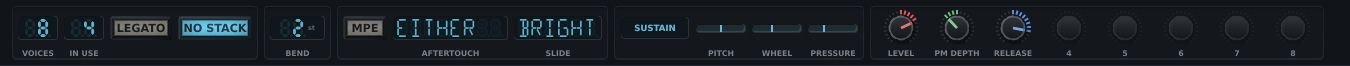
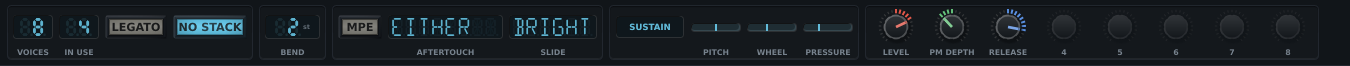
Even out the spacing in the bars

diff --git a/Source/UI/TopBar.cpp b/Source/UI/TopBar.cpp
@@ -17,12 +17,31 @@ namespace ovt::ui {
 namespace {
 constexpr float kZoomChoices[] = {0.75f, 1.0f, 1.25f, 1.5f};
 
-constexpr int kBarMargin = 12;
-constexpr int kBarPadY = 6;
-constexpr int kRowHeight = 54;
+/// The space round the edges of the bar. The same on the left, the right,
+/// the top and the bottom, and the same as between the four buttons. The
+/// bottom padding is one more than the top because the bar's bottom edge is
+/// a 1 px line.
+constexpr int kBarMargin = 7;
+constexpr int kBarPadTop = 5;
+constexpr int kBarPadBottom = 6;
+constexpr int kRowHeight = 55;
 constexpr int kRowGap = 4;
 constexpr int kGroupGap = 6;
+
+/// Inside a framed group, between its frame and its controls.
 constexpr int kGroupPad = 6;
+
+/// Between the groups that have no frame: the four buttons, the wordmark
+/// with the preset screen, and the first frame after them.
+constexpr int kUnframedGap = 22;
+
+/// Between the four buttons, across and down.
+constexpr int kButtonGap = 7;
+
+/// Below the controls in a frame, so its captions sit 2 px above the frame's
+/// bottom edge as its dials sit 3 px below the top, and every dial in a row is
+/// the same size.
+constexpr int kBelowControls = 1;
 
 /// Between the wordmark and the preset screen under it.
 constexpr int kWordmarkGap = 2;
@@ -36,26 +55,38 @@ constexpr int kWordmarkGap = 2;
 /// bar can spare rather than against what would be comfortable. Measured in
 /// the font a 24 px button picks, SETTINGS is 61 px of text and MACROS is 54.
 ///
-/// Both wear an icon instead, which is what makes 84 enough: the words want
-/// 62 and 54 px and the bar could spare 58 each, and every pixel taken here
-/// is half a pixel off each converter readout, which stop naming their units
-/// below 53. A gear and a rack of faders say the same thing in a third of
-/// the room, and the words are still what a screen reader is given.
+/// Both wear an icon instead, which is what makes 73 enough: the words want
+/// 62 and 54 px, and every pixel taken here is half a pixel off each
+/// converter readout, which stop naming their units below 53. A gear and a rack
+/// of faders say the same thing in a third of the room, and the words are still
+/// what a screen reader is given.
 ///
 /// The strings come straight after the character with no gap between, and
 /// where the two share a row they are framed as one, since both say what the
 /// instrument is rather than what is done to it afterwards. They are two
 /// groups so that a narrow window can put the strings on the next row rather
 /// than having to be wide enough for both.
-constexpr int kGroupMinWidth[] = {84, 144, 218, 194, 232, 228, 172};
+///
+/// The first two have no frame, so their widths are their contents: two
+/// 33 px buttons with a gap, and the 132 px preset screen.
+constexpr int kGroupMinWidth[] = {73, 132, 218, 194, 232, 228, 172};
+constexpr int kPresetGroupIndex = 1;
+constexpr int kSeriesGroupIndex = 2;
 constexpr int kStringsGroupIndex = 3;
 constexpr int kOutputGroupIndex = 6;
 constexpr int kGroupCount = 7;
 
 /// The room left before a group that follows another on its row. None before
-/// the strings, whose frame carries on from the character's.
+/// the strings, whose frame carries on from the character's, and more round
+/// the two groups that have no frame.
 constexpr int gapBefore(int group) {
-  return group == kStringsGroupIndex ? 0 : kGroupGap;
+  if (group == kStringsGroupIndex)
+    return 0;
+
+  if (group == kPresetGroupIndex || group == kSeriesGroupIndex)
+    return kUnframedGap;
+
+  return kGroupGap;
 }
 
 /// Buttons, lists and the output meter all stand this tall, centred on the
@@ -1539,7 +1570,7 @@ TopBar::RowPlan TopBar::planRows(int fullWidth, int maxRows) {
 int TopBar::heightForWidth(int width) {
   const auto rows = planRows(width - 2 * kBarMargin, kGroupCount).rows;
 
-  return rows * kRowHeight + (rows - 1) * kRowGap + 2 * kBarPadY;
+  return rows * kRowHeight + (rows - 1) * kRowGap + kBarPadTop + kBarPadBottom;
 }
 
 int TopBar::minimumWidth() {
@@ -1577,7 +1608,11 @@ void TopBar::parkControls() {
 void TopBar::placeGroup(int group, juce::Rectangle<int> bounds) {
   groupBounds[(size_t)group] = bounds;
 
-  auto r = bounds.reduced(kGroupPad, 0);
+  // The groups with no frame use their whole width.
+  const bool framed = group != VoiceGroup && group != PresetGroup;
+  auto r = framed
+               ? bounds.reduced(kGroupPad, 0).withTrimmedBottom(kBelowControls)
+               : bounds;
 
   // Everything in the bar lines up with the dials rather than with the middle
   // of the row. A knob carries its caption underneath, so its dial sits above
@@ -1628,18 +1663,18 @@ void TopBar::placeGroup(int group, juce::Rectangle<int> bounds) {
     // which is the one place on the bar that does not: there is no room for
     // a second row of buttons otherwise, and four in a line pushed the bar
     // onto another row at the width that shows all 32 channels.
-    const auto half = (r.getWidth() - kFxToggleGap) / 2;
-    const auto height = (r.getHeight() - kFxToggleGap) / 2;
+    const auto half = (r.getWidth() - kButtonGap) / 2;
+    const auto height = (r.getHeight() - kButtonGap) / 2;
 
     auto top = r.withHeight(height);
     auto bottom = r.withTop(r.getBottom() - height);
 
     settingsButton.setBounds(top.removeFromLeft(half));
-    top.removeFromLeft(kFxToggleGap);
+    top.removeFromLeft(kButtonGap);
     macroButton.setBounds(top);
 
     playingButton.setBounds(bottom.removeFromLeft(half));
-    bottom.removeFromLeft(kFxToggleGap);
+    bottom.removeFromLeft(kButtonGap);
     tuningButton.setBounds(bottom);
     break;
   }
@@ -1802,7 +1837,10 @@ void TopBar::resized() {
 
   parkControls();
 
-  auto area = getLocalBounds().reduced(kBarMargin, kBarPadY);
+  auto area = getLocalBounds()
+                  .reduced(kBarMargin, 0)
+                  .withTrimmedTop(kBarPadTop)
+                  .withTrimmedBottom(kBarPadBottom);
   const auto fullWidth = area;
 
   const auto affordable =
@@ -1898,27 +1936,29 @@ void TopBar::paint(juce::Graphics &g) {
       // Centred under the head rather than pushed into the corner, because
       // that is what the knob captions beside it do and the point is to read
       // as one more of them.
-      const auto band = LabelledKnob::captionBounds(r)
-                            .withX(n.head->getX())
-                            .withWidth(n.head->getWidth());
+      const auto band =
+          LabelledKnob::captionBounds(r.withTrimmedBottom(kBelowControls))
+              .withX(n.head->getX())
+              .withWidth(n.head->getWidth());
 
       g.drawText(kGroupNames[i], band, juce::Justification::centred, false);
     }
   }
 
-  // The wordmark, the width of the preset screen under it and centred in
-  // the room above it.
+  // The wordmark, the width of the preset screen under it, at the top of the
+  // room above it, so its tallest letter is level with the top of the
+  // buttons and the frames.
   const auto &preset = groupBounds[(size_t)PresetGroup];
 
   if (preset.isEmpty())
     return;
 
-  const auto above = preset.reduced(kGroupPad, 0)
-                         .withBottom(presetDisplay.getY() - kWordmarkGap);
+  const auto above = preset.withBottom(presetDisplay.getY() - kWordmarkGap);
 
   if (logoScaled.isValid()) {
     g.drawImage(logoScaled, above.toFloat(),
-                juce::RectanglePlacement::centred |
+                juce::RectanglePlacement::xMid |
+                    juce::RectanglePlacement::yTop |
                     juce::RectanglePlacement::onlyReduceInSize);
     return;
   }

diff --git a/Source/UI/OptionBars.cpp b/Source/UI/OptionBars.cpp
@@ -14,13 +14,19 @@ namespace ovt::ui {
 
 namespace {
 /// The same margins and spacing the top bar keeps, so the groups in a bar
-/// read as more of it.
-constexpr int kBarMargin = 12;
-constexpr int kBarPadY = 6;
+/// read as more of it: the same space on every side, with one more at the
+/// bottom for the bar's 1 px bottom line.
+constexpr int kBarMargin = 7;
+constexpr int kBarPadTop = 5;
+constexpr int kBarPadBottom = 6;
 
 /// A row and the gap between rows, the top bar's own.
-constexpr int kRow = 54;
+constexpr int kRow = 55;
 constexpr int kRowGap = 4;
+
+/// Below the controls in a frame, as in the top bar, so a dial is the size it
+/// is there.
+constexpr int kBelowControls = 1;
 constexpr int kGroupGap = 6;
 constexpr int kGroupPad = 6;
 constexpr int kControlGap = 6;
@@ -61,6 +67,13 @@ void OptionBar::mouseWheelMove(const juce::MouseEvent &e,
                                const juce::MouseWheelDetails &wheel) {
   if (e.originalComponent == this)
     juce::Component::mouseWheelMove(e, wheel);
+}
+
+juce::Rectangle<int> OptionBar::rowsArea() const {
+  return getLocalBounds()
+      .reduced(kBarMargin, 0)
+      .withTrimmedTop(kBarPadTop)
+      .withTrimmedBottom(kBarPadBottom);
 }
 
 juce::Colour OptionBar::captionColour(const Item &) const {
@@ -206,14 +219,13 @@ OptionBar::placeGroups(juce::Rectangle<int> area, int *rows) const {
 int OptionBar::heightForWidth(int width) const {
   int rows = 1;
   placeGroups(
-      {kBarMargin, kBarPadY, juce::jmax(1, width - 2 * kBarMargin), kRow},
+      {kBarMargin, kBarPadTop, juce::jmax(1, width - 2 * kBarMargin), kRow},
       &rows);
-  return rows * kRow + (rows - 1) * kRowGap + 2 * kBarPadY;
+  return rows * kRow + (rows - 1) * kRowGap + kBarPadTop + kBarPadBottom;
 }
 
 void OptionBar::resized() {
-  groupBounds =
-      placeGroups(getLocalBounds().reduced(kBarMargin, kBarPadY), nullptr);
+  groupBounds = placeGroups(rowsArea(), nullptr);
 
   for (size_t g = 0; g < groups.size(); ++g) {
     const auto &bounds = groupBounds[g];
@@ -221,13 +233,11 @@ void OptionBar::resized() {
     // The line the controls go along, one row tall, moving down a row when the
     // next control does not fit in what is left of it, which only a group
     // wider than the bar ever needs.
-    auto line = bounds.withHeight(kRow);
+    auto line = bounds.withHeight(kRow - kBelowControls);
     auto inner = line.reduced(kGroupPad, 0);
     bool first = true;
     int placedHere = 0;
-    const auto each = perLine(
-        groups[g], getLocalBounds().reduced(kBarMargin, kBarPadY).getWidth() -
-                       2 * kGroupPad);
+    const auto each = perLine(groups[g], rowsArea().getWidth() - 2 * kGroupPad);
 
     for (auto &item : groups[g].items) {
       const bool shown = !bounds.isEmpty() && item.shown;

diff --git a/Tests/plugin_runtime_test.cpp b/Tests/plugin_runtime_test.cpp
@@ -4857,7 +4857,7 @@ void testTopBarLayout() {
         "the bar fits in a sensible minimum width (" + std::to_string(minimum) +
             ")");
 
-  check(tallest <= 3 * 54 + 2 * 4 + 2 * 6,
+  check(tallest <= 3 * 55 + 2 * 4 + 5 + 6,
         "and takes no more than three rows there (" + std::to_string(tallest) +
             " px)");
 
@@ -10082,7 +10082,7 @@ void testBarComesOntoOneRow(OvertoniumProcessor &p) {
 
   // The figure the design notes quote. It moves whenever a control on the bar
   // changes width, and when it moves the notes move with it.
-  check(onOneRow == 1286, "and comes onto it at the width written down (" +
+  check(onOneRow == 1285, "and comes onto it at the width written down (" +
                               std::to_string(onOneRow) + ")");
 }
 

diff --git a/Source/PluginEditor.cpp b/Source/PluginEditor.cpp
@@ -1010,8 +1010,8 @@ void OvertoniumEditor::applyResizeLimits(int forLogicalWidth) {
   const int minWidth = minimumLogicalWidth();
 
   // The floor follows the width, and the reason is the bar. It takes three
-  // rows at the narrowest window, two from 676, and one from 1286, which is
-  // 182, 124 and 66 pixels of chrome, so the same mixer needs a window 116
+  // rows at the narrowest window, two from 675, and one from 1285, which is
+  // 184, 125 and 66 pixels of chrome, so the same mixer needs a window 118
   // pixels taller at one end of the range than at the other.
   //
   // It used to be worked out at minWidth and used at every width, which made

diff --git a/Source/UI/OptionBars.h b/Source/UI/OptionBars.h
@@ -66,6 +66,10 @@ public:
   /// Settings menu can move any of them.
   virtual void refresh() = 0;
 
+private:
+  /// The bar less its margins, where the rows go.
+  juce::Rectangle<int> rowsArea() const;
+
 protected:
   /// One control in a group, how wide it stands, and the caption under it,
   /// which may be empty.

diff --git a/DESIGN.md b/DESIGN.md
@@ -203,7 +203,7 @@ The table is a fixed member, sized for 2048 frames at a time, so the audio threa
 
 **On the panel it is in the shape button's own menu**, as a ticked entry below the one that sets every channel at once. That entry is also a switch over all thirty-three reached from one channel, so the two match. The alternative was two buttons on the bar. Settings was the wrong place, since everything there is session rather than patch, and two of the presets need this one.
 
-The bar fits on one row at 1286 px, and the window opens at 1350, which leaves 64 px, not enough for the two switches. The menu would be the right place even with the room, since a per-channel switch belongs on the channel, not on the bar.
+The bar fits on one row at 1285 px, and the window opens at 1350, which leaves 65 px, not enough for the two switches. The menu would be the right place even with the room, since a per-channel switch belongs on the channel, not on the bar.
 
 **A switch next to the shape caption lights when it is on**, because it is easy to forget a mode you cannot see, and this one is saved in a preset: without it a patch could load with a shared tremolo and nothing on the panel would show it. It is the same switch as the menu entry, drawn as three strokes merging into one, and clicking it toggles it. There is one per modulator rather than a mark on each of the thirty-three shape buttons, since all thirty-three follow the one switch. The editor reads the two parameters on its housekeeping tick and once more before the first paint, so an editor opened on a patch that shares a modulator shows it immediately rather than a quarter of a second later.
 
@@ -418,7 +418,7 @@ The top bar holds everything that is not per partial, in signal order from left 
 | Reverb   | the reverb. See below                                                                                                                                                                                                                                                                                                                                                       |
 | Output   | **MASTER**, the stereo meter, and the converter readouts under it                                                                                                                                                                                                                                                                                                           |
 
-**The wordmark sits above the preset name.** Both are the width of the preset screen, stacked in one group, so the instrument's name and the preset's name read as one block. At that width the wordmark is 24 px tall, and with the screen under it and a gap of two the pair fits the 54 px row, so the bar is no taller. There is no tagline, since it would tell someone already looking at the instrument what it is, and update notices come through a dialog and the lit SETTINGS. As an ordinary group the pair wraps like the others, with no special case for the first row. The bar fits on one row at 1286 px, on two at 676 and on three at the 482 px floor.
+**The wordmark sits above the preset name.** Both are the width of the preset screen, stacked in one group, so the instrument's name and the preset's name read as one block. At that width the wordmark is 24 px tall, and with the screen under it and a gap of two the pair fits the 55 px row, so the bar is no taller. The wordmark sits at the top of its space, so its tallest letter is level with the top of the buttons and the frames, and the screen's bottom edge is level with theirs. There is no tagline, since it would tell someone already looking at the instrument what it is, and update notices come through a dialog and the lit SETTINGS. As an ordinary group the pair wraps like the others, with no special case for the first row. The bar fits on one row at 1285 px, on two at 675 and on three at the 481 px floor.
 
 Zoom is in the Settings menu rather than on the bar, which saves eighty-eight pixels. They go to the output meter instead, and they make the converter readouts wide enough to keep their units.
 
@@ -442,7 +442,7 @@ The settings that get changed while playing are the voice count, Legato, No stac
 
 **Twelve displays, one per pitch class, in every temperament.** Each shows how far its note is from equal temperament in cents, with A on the reference, measured in middle C's octave, since a pitch class is the same distance from equal in every octave. Two keys an octave apart always read the same under Adaptive too, since octaves are settled first and never given up. Under a fixed temperament all twelve are lit and show the scale, because a key's tuning does not depend on what is held. Under Adaptive the held notes light and show where they are sounding, and the rest stay unlit. For each unlit note, the pitch it would have if played on its own, which is the version its pitch class last used and which the engine publishes with the chord, is still calculated and given to a screen reader. Cents rather than ratios, because half the temperaments have no ratios, and the display has to mean the same thing under all of them. The seven white keys sit on the unlit plastic that every cap on the panel is made of, with their names in the caps' near-black ink, and the five black keys sit on the pocket's dark floor, so the notes read the way they do on a keyboard. The background is drawn on the panel behind each display and its name, not in the display. It runs to the pocket's edges and halfway into the gaps, so E and F, and B and C, share one continuous background. The pocket's shading goes over it, with the same shadow under the top edge and light along the bottom as the dark floor, so the white keys sit in the same recess as the black ones rather than on top of it.
 
-That is also a question of room: the bar fits on one row at 1286 px and the window opens at 1350, so eighty-eight more would wrap it. But zoom stays in the menu for the same reason as everything else there. It is set once and left, and a bar is for the controls used while playing.
+That is also a question of room: the bar fits on one row at 1285 px and the window opens at 1350, so eighty-eight more would wrap it. But zoom stays in the menu for the same reason as everything else there. It is set once and left, and a bar is for the controls used while playing.
 
 The entry under zoom resets the window to the size that shows the whole mixer. Window size is saved with the session, which keeps a window you resized at that size and also keeps a narrowed one narrow, since nothing else here sets it. Its height comes from which groups of rows are folded, not from a stored number, so folding a group away and then fitting leaves no empty band under the strips.
 
@@ -454,7 +454,9 @@ The safety clipper is the exception. It is on the bar as CLIP, under the meter n
 
 CLIP is not a plain switch. It chooses between five shapes the way ECHO and REVERB choose between their machines, and the Settings entry keeps the switch that decides whether any of them runs, which is the only part that is still yes or no. The button abbreviates where it must: ASYM, because Asymmetric is 54 px of label in a space of 46, and the ten pixels it would need belong to the converter readouts next to it, which are already at the width they need to show their units. LIMIT is shortened to match, so the five read as one set of choices rather than four short words and a long one. Only the button shortens them. The menu, the host's automation lane and the documentation have room for the full words.
 
-Everything fits on one row from 1286 px of logical width. Below that the bar wraps onto more rows instead of dropping controls or letting captions overlap. It fills each row as far as it can. The window will not shrink below 482 px, which is where the bar stops fitting in three rows.
+Everything fits on one row from 1285 px of logical width. Below that the bar wraps onto more rows instead of dropping controls or letting captions overlap. It fills each row as far as it can. The window will not shrink below 481 px, which is where the bar stops fitting in three rows.
+
+The bar keeps 7 px on the left and right and 5 px above and below its row, and the four buttons have 7 px between them. The two groups without a frame, the buttons and the wordmark with the preset screen, have 22 px between them and before the first frame. Frames have 6 px between them. Inside a frame the dials sit 3 px below the top edge and the captions 2 px above the bottom one. The Playing and Tuning bars use the same margins and row height.
 
 The output meter is the one element that changes width. It takes any width left on its row up to a limit, since without a limit it would fill a whole row and stop looking like a meter. It gives back up to 40 px when a row is slightly too tight, so a window a few pixels too narrow for a row narrows the meter instead of wrapping.
 
